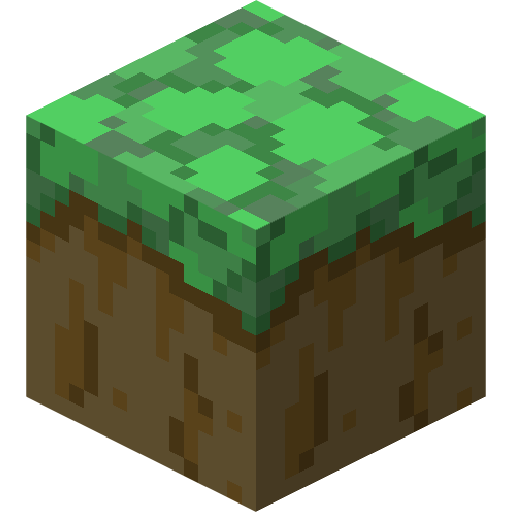
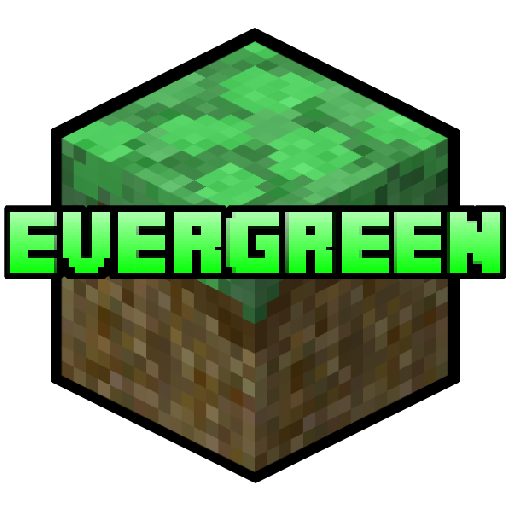
a few blocks and some help from Cookie Cakes

diff --git a/src/main/java/snowmansixtyfour/evergreen/block/Dichondra.java b/src/main/java/snowmansixtyfour/evergreen/block/Dichondra.java
@@ -1,0 +1,65 @@
+package snowmansixtyfour.evergreen.block;
+
+import java.util.Random;
+import net.minecraft.core.block.Block;
+import net.minecraft.core.block.material.Material;
+import net.minecraft.core.block.entity.TileEntity;
+import net.minecraft.core.entity.Entity;
+import net.minecraft.core.enums.EnumBlockSoundEffectType;
+import net.minecraft.core.enums.EnumDropCause;
+import net.minecraft.core.data.gamerule.GameRules;
+import net.minecraft.core.util.phys.AABB;
+import net.minecraft.core.item.ItemStack;
+import net.minecraft.core.world.World;
+
+public class Dichondra extends Block {
+	public Dichondra(String key, int id, Material material) {
+		super(key, id, material);
+		this.setTicking(true);
+	}
+
+	@Override
+	public void onEntityCollidedWithBlock(World world, int x, int y, int z, Entity entity) {
+		if (entity.isSneaking() && entity.yd < 0.0) {
+			entity.yd = 0.0;
+		}
+		else if (entity.yd < 0.0D) {
+			entity.yd = -entity.yd;
+			entity.fallDistance = 0;
+		}
+	}
+
+	public void updateTick(World world, int x, int y, int z, Random rand) {
+		if (!world.isClientSide) {
+			if (world.getBlockLightValue(x, y + 1, z) < 4 && Block.lightBlock[world.getBlockId(x, y + 1, z)] > 2) {
+				if (rand.nextInt(4) != 0) {
+					return;
+				}
+
+				world.setBlockWithNotify(x, y, z, EvergreenBlocks.everdirt.id);
+			} else if (world.getBlockLightValue(x, y + 1, z) >= 9) {
+				int l = x + rand.nextInt(3) - 1;
+				int i1 = y + rand.nextInt(5) - 3;
+				int j1 = z + rand.nextInt(3) - 1;
+				int k1 = world.getBlockId(l, i1 + 1, j1);
+				if (world.getBlockId(l, i1, j1) == EvergreenBlocks.everdirt.id && world.getBlockLightValue(l, i1 + 1, j1) >= 4 && Block.lightBlock[k1] <= 2) {
+					world.setBlockWithNotify(l, i1, j1, this.id);
+				}
+			}
+		}
+	}
+
+	public AABB getCollisionBoundingBoxFromPool (World world,int x, int y, int z){
+		return AABB.getBoundingBoxFromPool(x, y, z, (x + 1), y+.9f, (z + 1));
+	}
+
+	public ItemStack[] getBreakResult(World world, EnumDropCause dropCause, int x, int y, int z, int meta, TileEntity tileEntity) {
+		switch (dropCause) {
+			case SILK_TOUCH:
+			case PICK_BLOCK:
+				return new ItemStack[]{new ItemStack(this)};
+			default:
+				return new ItemStack[]{new ItemStack(EvergreenBlocks.everdirt)};
+		}
+	}
+}

diff --git a/src/main/java/snowmansixtyfour/evergreen/block/EvergreenBlocks.java b/src/main/java/snowmansixtyfour/evergreen/block/EvergreenBlocks.java
@@ -14,6 +14,7 @@ public class EvergreenBlocks {
 
 	public static Block dichondra;
 	public static Block everdirt;
+	public static Block ancientslate;
 
 	private int blockID(String blockName) {
 		return EvergreenConfig.cfg.getInt("Block IDs." + blockName);
@@ -34,17 +35,27 @@ public class EvergreenBlocks {
 			.setBlockSound(new BlockSound("step.gravel", "step.gravel", 1.0f, 1.0f))
 			.setHardness(0.6f)
 			.setResistance(1.0f)
-			.setTags(BlockTags.MINEABLE_BY_SHOVEL, BlockTags.GROWS_SUGAR_CANE, BlockTags.PASSIVE_MOBS_SPAWN, BlockTags.FIREFLIES_CAN_SPAWN, BlockTags.CAVE_GEN_REPLACES_SURFACE, BlockTags.CAVES_CUT_THROUGH);
+			.setTags(BlockTags.MINEABLE_BY_SHOVEL, BlockTags.GROWS_FLOWERS, BlockTags.GROWS_SUGAR_CANE, BlockTags.GROWS_TREES, BlockTags.CAVES_CUT_THROUGH);
+
+		BlockBuilder stone = new BlockBuilder(MOD_ID)
+			.setBlockSound(new BlockSound("step.stone", "step.stone", 1.0f, 1.0f))
+			.setHardness(0.6f)
+			.setResistance(1.0f)
+			.setTags(BlockTags.MINEABLE_BY_PICKAXE, BlockTags.CAVES_CUT_THROUGH);
 
 		dichondra = grass
 			.setSideTextures("dichondra_side.png")
 			.setTopTexture("dichondra_top.png")
 			.setBottomTexture("everdirt.png")
-			.build(new Block("dichondra", blockID("dichondra"), Material.grass));
+			.build(new Dichondra("dichondra", blockID("dichondra"), Material.grass));
 
 		everdirt = dirt
 			.setTextures("everdirt.png")
-			.build(new Block("everdirt", blockID("everdirt"), Material.dirt));
+			.build(new Everdirt("everdirt", blockID("everdirt"), Material.dirt));
+
+		ancientslate = stone
+			.setTextures("ancient_slate.png")
+			.build(new AncientSlate("ancientslate", blockID("ancientslate"), Material.stone));
 
 		initializeBlockDetails();
 	}

diff --git a/src/main/java/snowmansixtyfour/evergreen/block/AncientSlate.java b/src/main/java/snowmansixtyfour/evergreen/block/AncientSlate.java
@@ -1,0 +1,30 @@
+package snowmansixtyfour.evergreen.block;
+
+import java.util.Random;
+import net.minecraft.core.block.Block;
+import net.minecraft.core.block.material.Material;
+import net.minecraft.core.block.entity.TileEntity;
+import net.minecraft.core.entity.Entity;
+import net.minecraft.core.enums.EnumBlockSoundEffectType;
+import net.minecraft.core.enums.EnumDropCause;
+import net.minecraft.core.data.gamerule.GameRules;
+import net.minecraft.core.util.phys.AABB;
+import net.minecraft.core.item.ItemStack;
+import net.minecraft.core.world.World;
+
+public class AncientSlate extends Block {
+	public AncientSlate(String key, int id, Material material) {
+		super(key, id, material);
+		this.setTicking(true);
+	}
+
+	public ItemStack[] getBreakResult(World world, EnumDropCause dropCause, int x, int y, int z, int meta, TileEntity tileEntity) {
+		switch (dropCause) {
+			case SILK_TOUCH:
+			case PICK_BLOCK:
+				return new ItemStack[]{new ItemStack(this)};
+			default:
+				return new ItemStack[]{new ItemStack(Block.slate)};
+		}
+	}
+}

diff --git a/src/main/java/snowmansixtyfour/evergreen/world/EvergreenDimension.java b/src/main/java/snowmansixtyfour/evergreen/world/EvergreenDimension.java
@@ -1,0 +1,25 @@
+package snowmansixtyfour.evergreen.world;
+
+import snowmansixtyfour.evergreen.block.EvergreenBlocks;
+
+import net.fabricmc.loader.api.entrypoint.PreLaunchEntrypoint;
+import net.minecraft.client.entity.player.EntityPlayerSP;
+import net.minecraft.core.entity.player.EntityPlayer;
+import net.minecraft.core.world.Dimension;
+import net.minecraft.core.world.World;
+import net.minecraft.core.world.biome.Biome;
+import net.minecraft.core.world.biome.Biomes;
+import net.minecraft.core.world.chunk.ChunkCoordinates;
+import net.minecraft.core.world.type.WorldType;
+import net.minecraft.core.world.type.WorldTypes;
+import net.minecraft.core.world.weather.Weather;
+import net.minecraft.server.entity.player.EntityPlayerMP;
+
+import java.util.ArrayList;
+import java.util.HashMap;
+import java.util.List;
+import java.util.Map;
+
+public class EvergreenDimension {
+	public static int EvergreenDimensionID = 5;
+}

diff --git a/src/main/java/snowmansixtyfour/evergreen/mixin/GuiMainMenuMixin.java b/src/main/java/snowmansixtyfour/evergreen/mixin/GuiMainMenuMixin.java
@@ -1,0 +1,19 @@
+package snowmansixtyfour.evergreen.mixin;
+
+import net.minecraft.client.gui.GuiMainMenu;
+import net.minecraft.client.gui.GuiScreen;
+import net.minecraft.client.render.RenderEngine;
+import org.spongepowered.asm.mixin.Mixin;
+import org.spongepowered.asm.mixin.injection.At;
+import org.spongepowered.asm.mixin.injection.Redirect;
+
+@Mixin(value = GuiMainMenu.class, remap = false)
+public class GuiMainMenuMixin extends GuiScreen {
+	//HUGE thanks to Cookie Cakes for helping me write this! -Snowman64
+	@Redirect(method = "drawScreen",
+		at = @At(value = "INVOKE",
+			target = "Lnet/minecraft/client/render/RenderEngine;getTexture(Ljava/lang/String;)I"))
+	private int evergreen_setLogo(RenderEngine instance, String e) {
+		 return mc.renderEngine.getTexture("assets/evergreen/gui/evergreen_logo.png");
+	}
+}

diff --git a/src/main/java/snowmansixtyfour/evergreen/biome/BiomeEverforest.java b/src/main/java/snowmansixtyfour/evergreen/biome/BiomeEverforest.java
@@ -1,0 +1,18 @@
+package snowmansixtyfour.evergreen.biome;
+
+import snowmansixtyfour.evergreen.EvergreenMod;
+import snowmansixtyfour.evergreen.block.EvergreenBlocks;
+import net.minecraft.core.block.Block;
+import net.minecraft.core.world.biome.BiomeForest;
+import net.minecraft.core.world.generate.feature.WorldFeature;
+import net.minecraft.core.world.generate.feature.tree.WorldFeatureTreeFancy;
+
+import java.util.Random;
+
+public class BiomeEverforest extends BiomeForest {
+	public BiomeEverforest(String key) {
+		super(key);
+		this.topBlock = (short) EvergreenBlocks.dichondra.id;
+		this.fillerBlock = (short)EvergreenBlocks.everdirt.id;
+	}
+}

diff --git a/src/main/java/snowmansixtyfour/evergreen/EvergreenMod.java b/src/main/java/snowmansixtyfour/evergreen/EvergreenMod.java
@@ -4,6 +4,7 @@ import net.fabricmc.api.ModInitializer;
 import org.slf4j.Logger;
 import org.slf4j.LoggerFactory;
 import snowmansixtyfour.evergreen.block.EvergreenBlocks;
+import snowmansixtyfour.evergreen.biome.EvergreenBiomes;
 import turniplabs.halplibe.util.GameStartEntrypoint;
 import turniplabs.halplibe.util.RecipeEntrypoint;
 
@@ -19,6 +20,7 @@ public class EvergreenMod implements ModInitializer, GameStartEntrypoint, Recipe
 	@Override
 	public void beforeGameStart() {
 		new EvergreenBlocks().initializeBlocks();
+		new EvergreenBiomes().initializeBiomes();
 	}
 
 	@Override

diff --git a/src/main/java/snowmansixtyfour/evergreen/block/Everdirt.java b/src/main/java/snowmansixtyfour/evergreen/block/Everdirt.java
@@ -1,0 +1,17 @@
+package snowmansixtyfour.evergreen.block;
+
+import net.minecraft.core.block.Block;
+import net.minecraft.core.block.material.Material;
+import net.minecraft.core.entity.Entity;
+import net.minecraft.core.enums.EnumBlockSoundEffectType;
+import net.minecraft.core.util.phys.AABB;
+import net.minecraft.core.world.World;
+
+public class Everdirt extends Block {
+	public Everdirt(String key, int id, Material material) {
+		super(key, id, material);
+	}
+
+
+
+}

diff --git a/src/main/java/snowmansixtyfour/evergreen/biome/EvergreenBiomes.java b/src/main/java/snowmansixtyfour/evergreen/biome/EvergreenBiomes.java
@@ -1,0 +1,13 @@
+package snowmansixtyfour.evergreen.biome;
+
+import snowmansixtyfour.evergreen.EvergreenMod;
+import net.minecraft.core.world.biome.Biome;
+import net.minecraft.core.world.biome.Biomes;
+
+public class EvergreenBiomes {
+	public static final Biome EVERGREEN_EVERFOREST = new BiomeEverforest("evergreen.everforest");
+
+	public static void initializeBiomes() {
+		Biomes.register(EvergreenMod.MOD_ID+"evergreen.everforest", EVERGREEN_EVERFOREST);
+	}
+}
